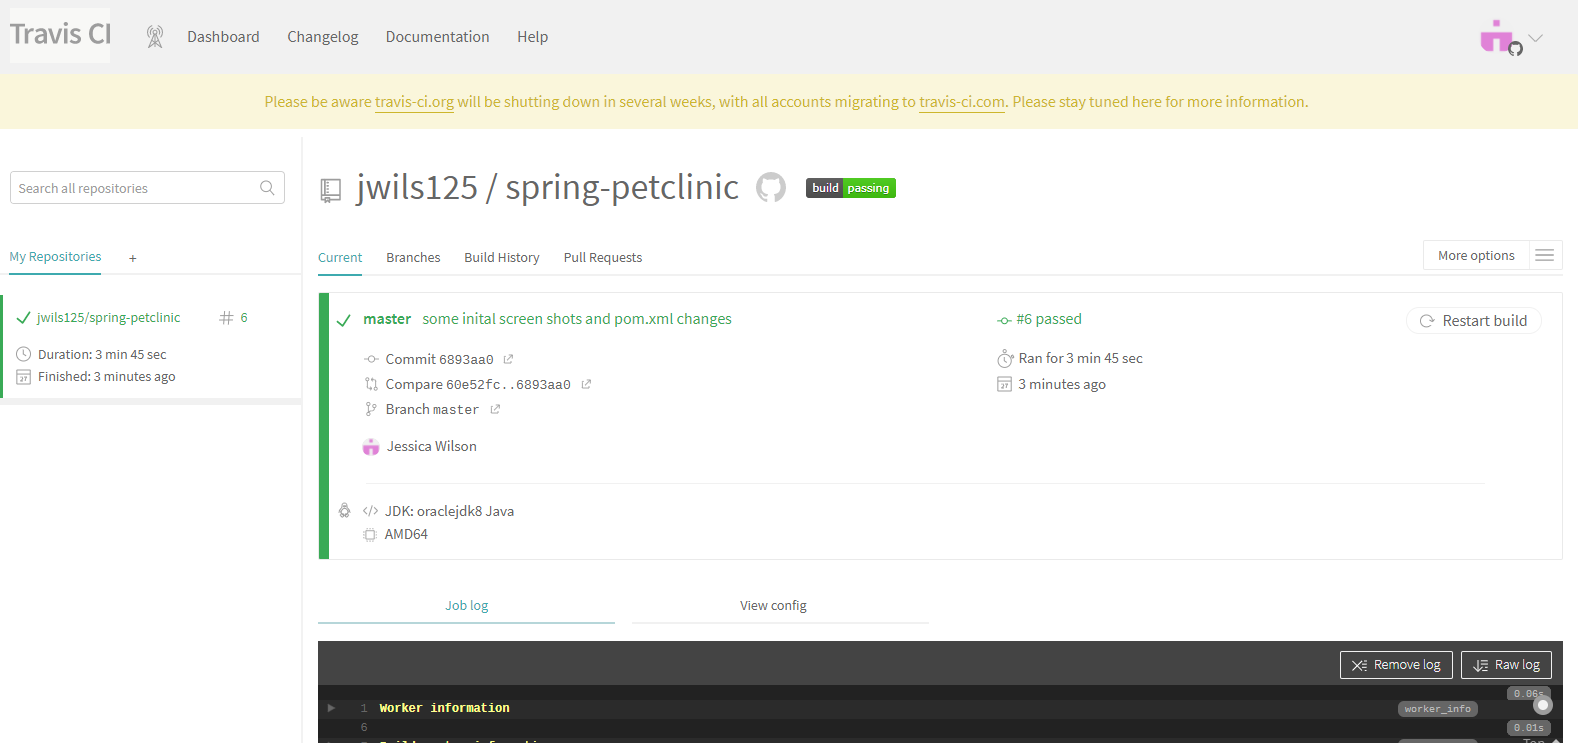
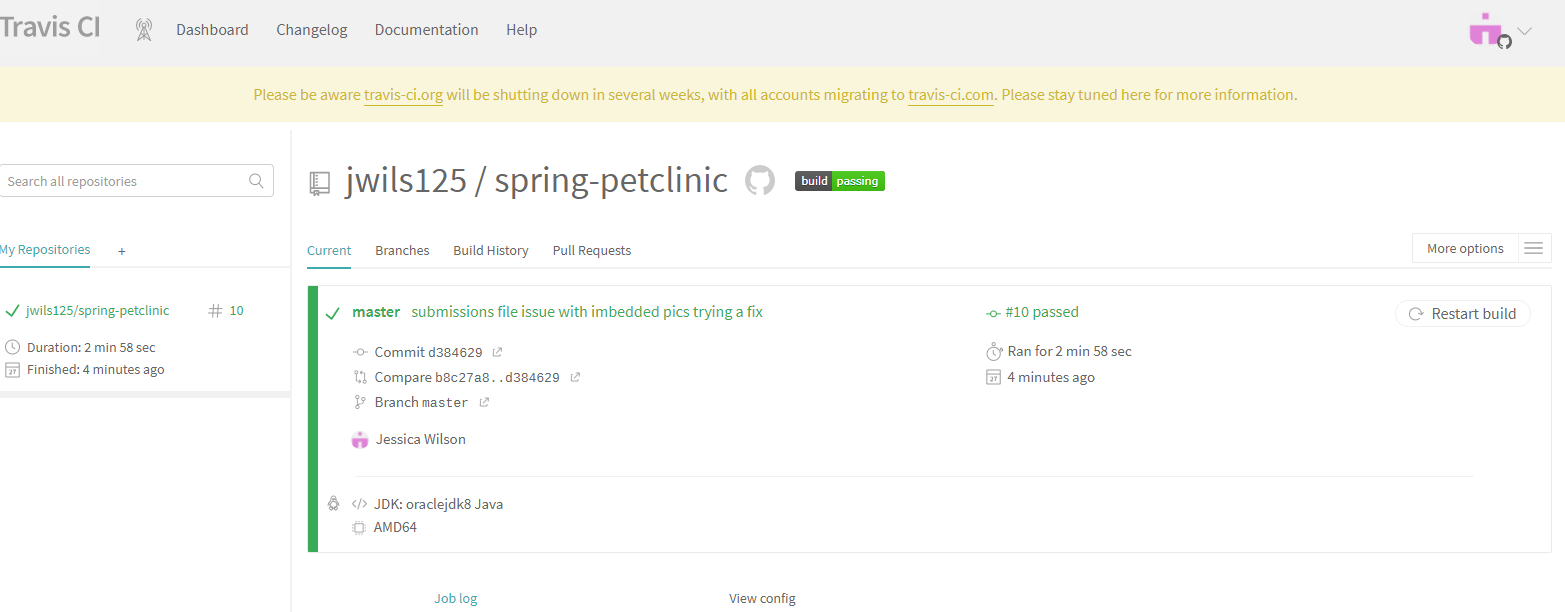
all pictures captured andsubmission updated

diff --git a/SUBMISSION.md b/SUBMISSION.md
@@ -9,13 +9,13 @@
 ![Screen Capture #1](images/my-screen-capture.jpg)
 ```
 
--Your Github account showing that is has been forked from the depaulcdm/springpetclinic repository. ![Screen Capture #1](images/forkedRepositoryScreenshot1.PNG)
--Your Travis CI dashboard showing a successful first build. ![Screen Capture #1](images/TravisCISuccessfulFirstBuild.PNG)
--The section of the POM file showing the coordinates after you’ve changed them. ![Screen Capture #1](images/ChangedPOMCoordinates.PNG)
--Your Travis CI dashboard showing a successful build after your change of the group ID. ![Screen Capture #1](images/SecondBuildPassingWithGroupIdChange.PNG)
--The section of the POM file showing the coordinates after you’ve commented them out. ![Screen Capture #1](images/CommentedOutCoordinatesinPOM.PNG)
--Your Travis CI dashboard showing the unsuccessful build after the breaking change. ![Screen Capture #1](images/TravisCIFailureBuild.PNG)
--Your Github repository with the readme.md file selected showing the build failed status after the Travis CI build fails. ![Screen Capture #1](images/BuildErrorStatusInGitHub.PNG)
--The section of the POM file showing the coordinates after you’ve fixed them. ![Screen Capture #1](images/ChangedPOMCoordinates.PNG)
--Your Travis CI dashboard showing the successful build after the breaking change has been fixed. ![Screen Capture #1](images/TravisCISuccessfulFinalBuild.PNG)
--Your Github repository with the readme.md file selected showing the build success status after the Travis CI build has recovered. ![Screen Capture #1](images/.PNG)
+- Your Github account showing that is has been forked from the depaulcdm/springpetclinic repository. ![Screen Capture #1](images/forkedRepositoryScreenshot1.PNG)
+- Your Travis CI dashboard showing a successful first build. ![Screen Capture #1](images/TravisCISuccessfulFirstBuild.PNG)
+- The section of the POM file showing the coordinates after you’ve changed them. ![Screen Capture #1](images/ChangedPOMCoordinates.PNG)
+- Your Travis CI dashboard showing a successful build after your change of the group ID. ![Screen Capture #1](images/SecondBuildPassingWithGroupIdChange.PNG)
+- The section of the POM file showing the coordinates after you’ve commented them out. ![Screen Capture #1](images/CommentedOutCoordinatesinPOM.PNG)
+- Your Travis CI dashboard showing the unsuccessful build after the breaking change. ![Screen Capture #1](images/TravisCIFailureBuild.PNG)
+- Your Github repository with the readme.md file selected showing the build failed status after the Travis CI build fails. ![Screen Capture #1](images/BuildErrorStatusInGitHub.PNG)
+- The section of the POM file showing the coordinates after you’ve fixed them. ![Screen Capture #1](images/ChangedPOMCoordinates.PNG)
+- Your Travis CI dashboard showing the successful build after the breaking change has been fixed. ![Screen Capture #1](images/TravisCISuccessfulFinalBuild.PNG)
+- Your Github repository with the readme.md file selected showing the build success status after the Travis CI build has recovered. ![Screen Capture #1](images/BuildPassingStatusInGitHub.PNG)
